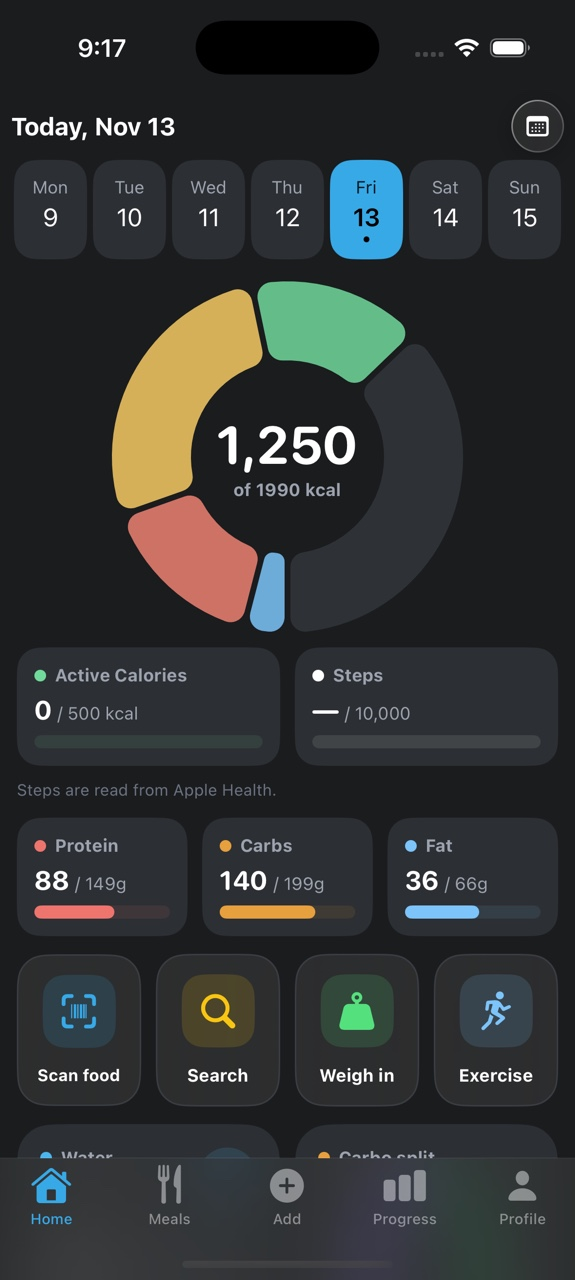
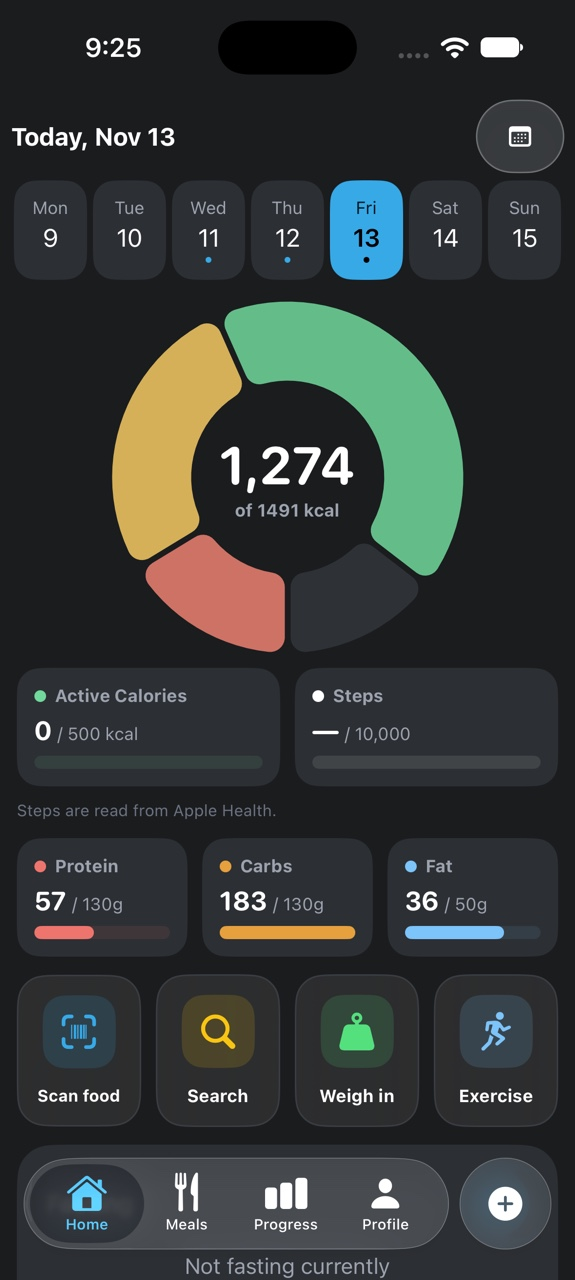
marketing

diff --git a/index.html b/index.html
@@ -187,7 +187,7 @@
               <img
                 class="block h-auto w-full rounded-[20px] border border-line-strong bg-surface shadow-[0_22px_60px_rgb(0_0_0/0.5)]"
                 src="/shots/home-dark.jpg"
-                alt="Fituous home screen on iPhone: a segmented calorie ring showing 1,250 of 1990 kcal, protein at 88 of 149 g, carbs at 140 of 199 g and fat at 36 of 66 g, active calories and steps cards, and quick actions for scanning, searching, weighing in and exercise."
+                alt="Fituous home screen on iPhone: a segmented calorie ring showing 1,274 of 1491 kcal, protein at 57 of 130 g, carbs at 183 of 130 g and fat at 36 of 50 g, active calories and steps cards, and quick actions for scanning, searching, weighing in and exercise."
                 width="575"
                 height="1280"
               />
@@ -528,7 +528,7 @@
                   <img
                     class="block h-auto w-full rounded-[20px] border border-line-strong bg-surface shadow-[0_22px_60px_rgb(0_0_0/0.5)]"
                     src="/shots/home-light.jpg"
-                    alt="The same home screen in its light theme: white surfaces, the same 1,250 of 1990 kcal ring, macro bars and quick actions."
+                    alt="The same home screen in its light theme: white surfaces, the same 1,274 of 1491 kcal ring, macro bars and quick actions."
                     width="575"
                     height="1280"
                     loading="lazy"
